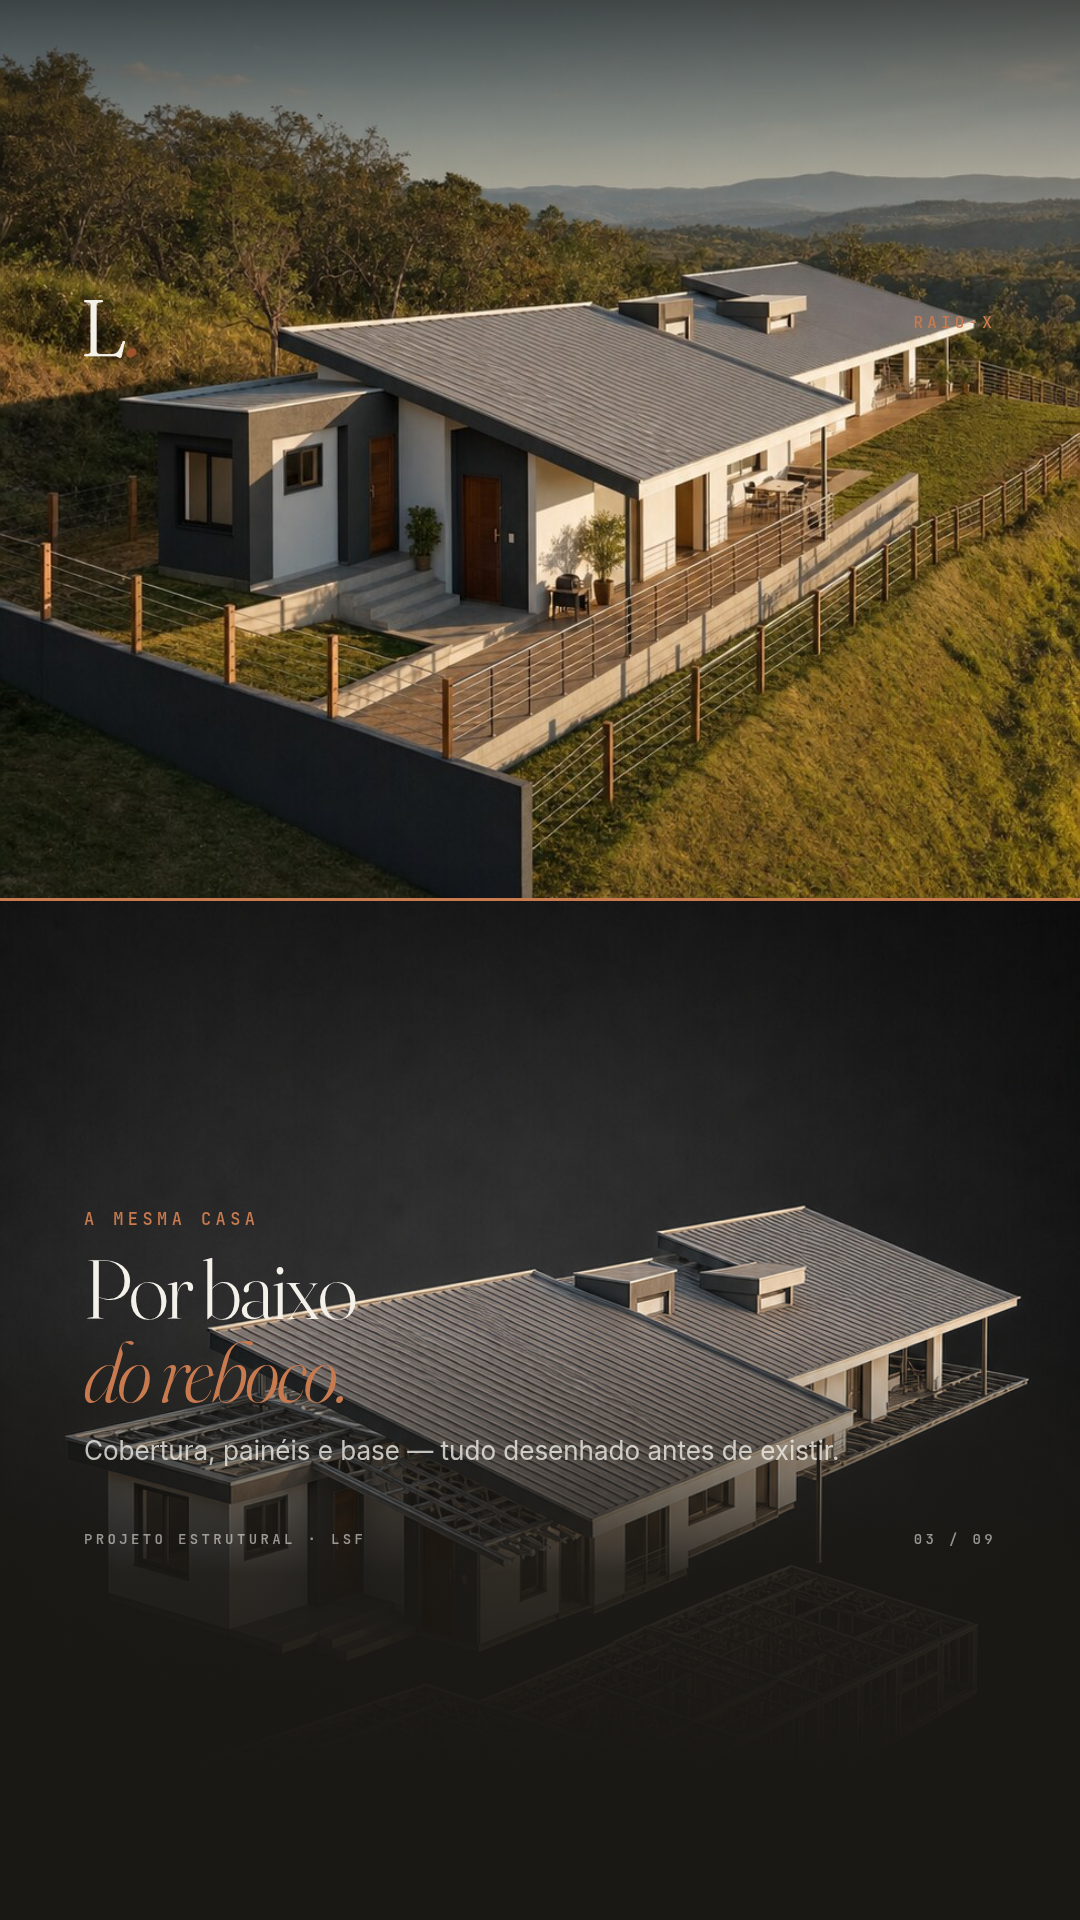
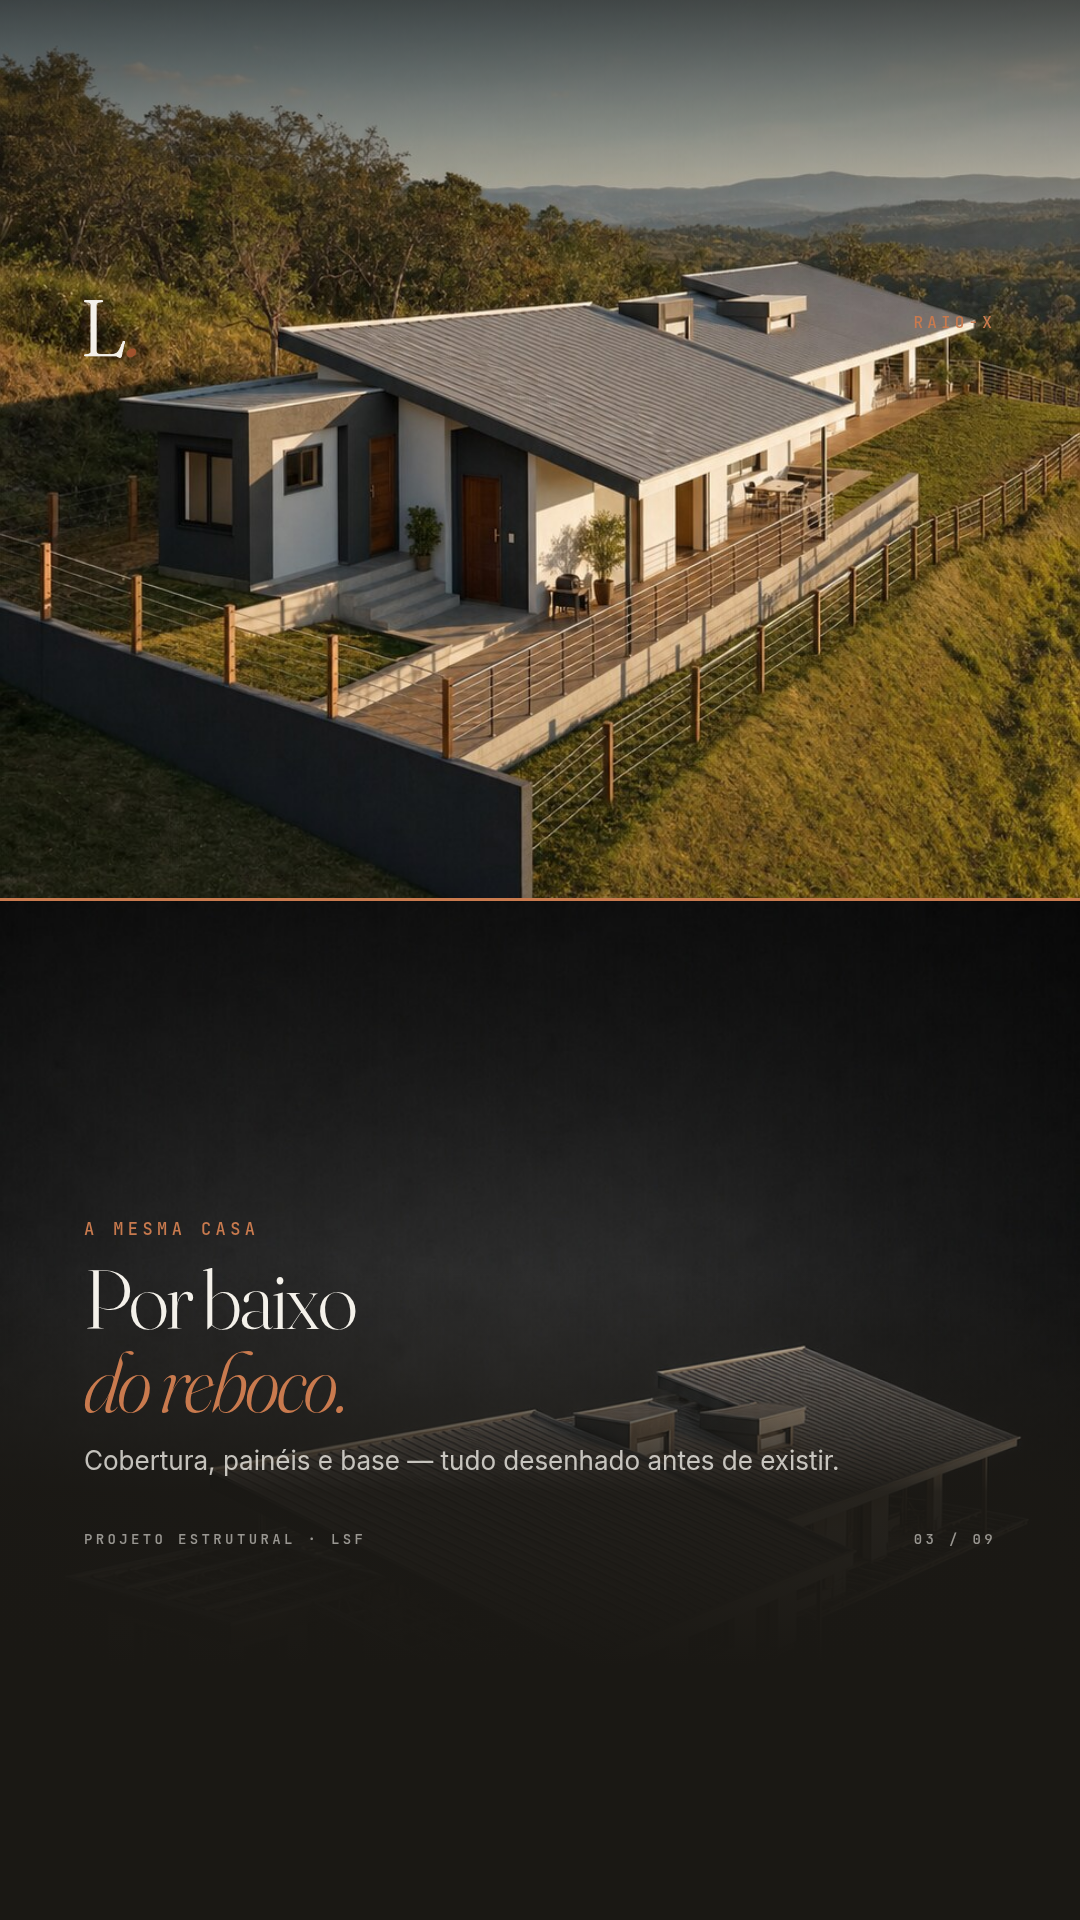
Stories visuais: ajusta raio-X (texto fora do render)
Claude-Session: https://claude.ai/code/session_01PRv9GQGVQpthPzk2xkVq1a

Changed region(s): [[0.0611, 0.625, 0.9472, 0.8125]]

diff --git a/instagram/stories_visuais.html b/instagram/stories_visuais.html
@@ -57,11 +57,11 @@ body.export .sticker{display:none;}
 
 /* 03 RAIO-X — casa pronta × estrutura */
 #s3 .a{position:absolute;left:0;right:0;top:0;height:900px;background:url('../assets/stories/debora-casa.jpg') center 62%/cover;}
-#s3 .b{position:absolute;left:0;right:0;top:900px;bottom:0;background:url('../assets/stories/debora-explodido.jpg') center 18%/cover;}
+#s3 .b{position:absolute;left:0;right:0;top:900px;bottom:0;background:url('../assets/stories/debora-explodido.jpg') center 0%/cover;}
 #s3 .sa{position:absolute;left:0;right:0;top:0;height:900px;background:linear-gradient(to bottom,rgba(26,24,20,.75) 0%,rgba(26,24,20,0) 35%);}
-#s3 .sb{position:absolute;left:0;right:0;top:900px;bottom:0;background:linear-gradient(to bottom,rgba(26,24,20,0) 42%,rgba(26,24,20,.9) 66%,var(--tinta) 85%);}
+#s3 .sb{position:absolute;left:0;right:0;top:900px;bottom:0;background:linear-gradient(to bottom,rgba(26,24,20,0) 36%,rgba(26,24,20,.94) 58%,var(--tinta) 75%);}
 #s3 .line{position:absolute;left:0;right:0;top:898px;height:3px;background:var(--terra-c);z-index:5;}
-#s3 .box{bottom:450px;}
+#s3 .box{bottom:440px;}
 #s3 .h{font-size:84px;}
 
 /* 04 QUIZ VISUAL — prancha hidráulica */
